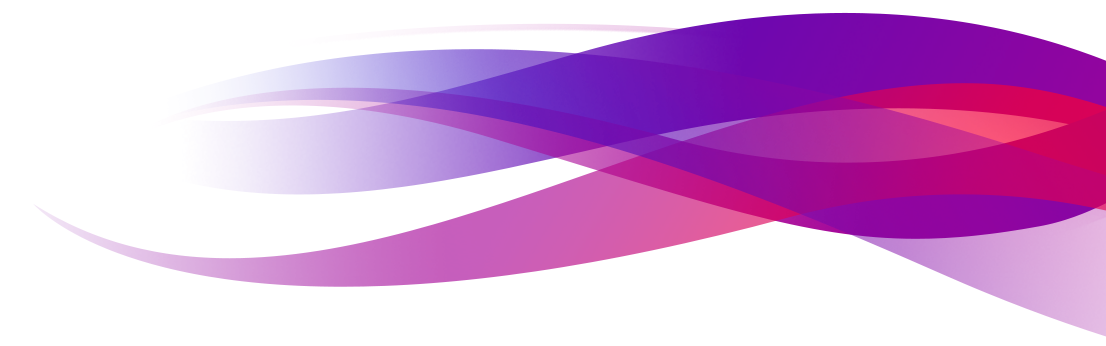
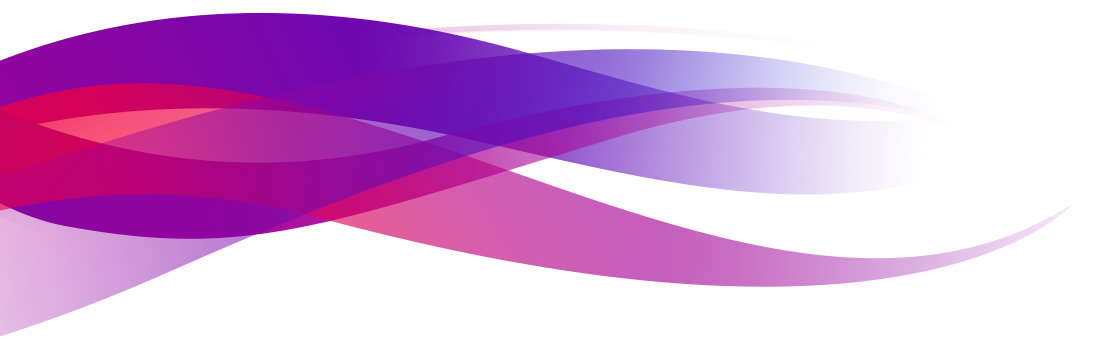
added highlite & footer option. project complete

diff --git a/index.html b/index.html
@@ -182,9 +182,49 @@
                 <p>Born 10 April 1992, is a Senegalese professional footballer who plays as a winger for Premier League club Liverpool and the Senegal national team.</p>
             </div>
         </div>
-        
-        
-        
     </section>
+<!------------------------------------------------------- players gallery end ------------------------------------------------------------>
+
+
+
+<!------------------------------------------------------- highlight section start ------------------------------------------------------------>
+
+
+    <section class="highlights" >
+        <div class="intro">
+            <div class="intro-description half-width">
+                <h1>All Highlights</h1>
+                <h1>Copa America 2021</h1>
+                <p>Copa America 2021 final highlights, Brazil vs Argentina: Argentina win the Copa America title for the first time since 1993 as they beat Brazil 1-0 in the final at the historic Maracana Stadium in Rio de Janeiro. Angel Di Maria scored the only goal of the match in the 22nd minute. This is Lionel Messi's first major trophy with the Argentina senior team.</p>
+                <button class="btn" ><a href="https://github.com/sobhansarker">Watch Now <i class="fas fa-long-arrow-alt-right"></i></a></button>
+            </div>
+            <div class="into-pic half-width">
+                <img src="images/match.png" alt="">
+            </div>
+        </div>
+    </section>
+
+<!------------------------------------------------------- highlight section start ------------------------------------------------------------>
+
+
+<!------------------------------------------------------- footer start ------------------------------------------------------------>
+
+    <footer>
+        <div class="ft-1">
+            <img src="images/Logo.png" alt="">
+        </div>
+        <br>
+        <div class="f-icons">
+            <a href=""><img src="images/Social Icons/Instagram.png" alt=""></a> <a href=""><img src="images/Social Icons/Dribbble.png" alt=""></a> <a href=""><img src="images/Social Icons/Twitter.png" alt=""></a> <a href=""><img src="images/Social Icons/Youtube.png" alt=""></a>
+        </div>
+        <br>
+        <p>Copyright © 2022 Football</p>
+    </footer>
+
+
+
+
+
+<!------------------------------------------------------- footer end ------------------------------------------------------------>
 </body>
 </html>

diff --git a/style.css b/style.css
@@ -101,3 +101,49 @@ section{
 .player-description{
     height: 50%;
 }
+
+/* -------------------------highlights section---------------------------------- */
+
+.highlights{
+    background-image: url(images/bg_2nd.png);
+    background-repeat: no-repeat;
+    background-size: cover;
+}
+
+.highlights .into-pic{
+    margin-left: 50px;
+    
+}
+
+/* -------------------------Footer section ---------------------------------- */
+
+footer{
+    width: 80%;
+    margin: auto ;
+    margin-top: 100px;
+    text-align: center;
+}
+
+footer img{
+    margin: auto ;
+}
+
+.ft-1{
+    width: 40%;
+    margin: auto;
+}
+
+.f-icons{
+    width: 25%;
+    display: flex;
+    margin: auto;
+}
+
+.f-icons a{
+    padding: 10px;
+}
+
+
+
+
+
